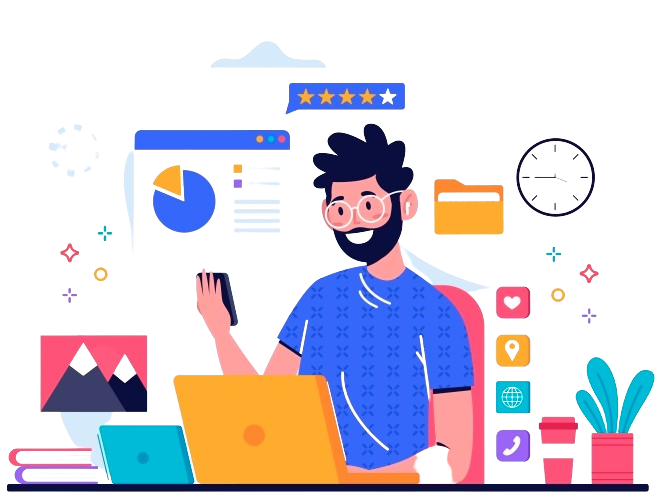
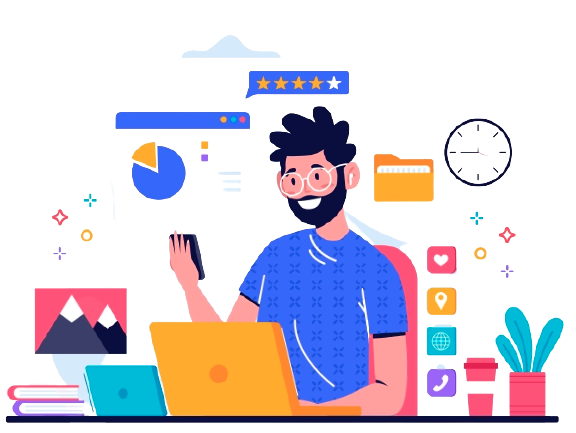
Feat : Added Home Page

diff --git a/src/pages/Home Page/Home.tsx b/src/pages/Home Page/Home.tsx
@@ -3,16 +3,10 @@ import {
 	Flex,
 	Stack,
 	useColorMode,
-	IconButton,
 	Box,
 	Image,
-	MenuItem,
-	MenuList,
-	Menu,
-	MenuButton,
 	Grid,
 	Heading,
-	Avatar,
 	Button,
 } from "@chakra-ui/react";
 import bg from "../../images/bg.png";
@@ -26,25 +20,24 @@ export function Home() {
 					templateColumns={[
 						"repeat(1,1fr)",
 						"repeat(1,1fr)",
-						"repeat(2,0.5fr)",
+						"repeat(2,fr)",
 						"repeat(2, 1fr)",
 					]}
 					gap={6}
 				>
-					<Box p={3} style={{ border: "1px solid red" }}>
-						<Image src={bg} />
+					<Box p={3}>
+						<Image w={["100%", "100%", "74%", "100%"]} mx="auto" src={bg} />
 					</Box>
-					<Stack
-						align="center"
-						justify="center"
-						style={{ border: "1px solid red" }}
-						spacing="2em"
-						p={3}
-					>
-						<Heading className="banner-heading" as="h1" size="3xl">
-							An Online Community of Musketeeeeers.
+					<Stack align="center" justify="center" spacing="2em" p={3}>
+						<Heading
+							style={{ fontFamily: "Quicksand, sans-serif" }}
+							className="banner-heading"
+							as="h1"
+							fontSize="3vw"
+						>
+							An Online Community for Musketeeeeers.
 						</Heading>
-						<p>
+						<p className="quote">
 							<strong>Sociify</strong> is an online platform which helps its
 							users to get closer and remain updated on their likeable topics
 							thorugh quizzes.

diff --git a/src/components/Navbar.tsx b/src/components/Navbar.tsx
@@ -1,13 +1,10 @@
 import "./Navbar.css";
 import {
 	AddIcon,
-	EditIcon,
 	ExternalLinkIcon,
 	HamburgerIcon,
 	LockIcon,
 	MoonIcon,
-	RepeatIcon,
-	SearchIcon,
 	SunIcon,
 } from "@chakra-ui/icons";
 import {
@@ -22,6 +19,7 @@ import {
 	Menu,
 	MenuButton,
 	Avatar,
+	Tooltip,
 } from "@chakra-ui/react";
 import { useLocation, Link } from "react-router-dom";
 import { bgColor, textColor } from "../utils/constants";
@@ -43,15 +41,26 @@ export function Navbar() {
 				fontSize={["md", "lg", "lg", "md"]}
 				h={["3em", "3em", "3em", "4em"]}
 				boxShadow="md"
-		
 			>
 				<Flex mx={3} w="100%" justify="space-between" align="center">
 					<Box>
-						<Image
-							h={["2em", "2.1em", "2.1em", "2.5em"]}
-							src={icon}
-							alt="Logo of Chakra-ui"
-						/>
+						<Tooltip
+							label="Socify"
+							fontSize="md"
+							placement="auto"
+							bg="transparent"
+							boxShadow="none"
+							color={colorMode === "light" ? bgColor["dark"] : bgColor["light"]}
+						>
+							<Link to={{ pathname: "/" }}>
+								{" "}
+								<Image
+									h={["2em", "2.1em", "2.1em", "2.5em"]}
+									src={icon}
+									alt="Logo of Chakra-ui"
+								/>
+							</Link>
+						</Tooltip>
 					</Box>
 					<Stack
 						spacing={[3, 5, 8, 8]}

diff --git a/src/pages/Home Page/Home.css b/src/pages/Home Page/Home.css
@@ -1,5 +1,4 @@
 .join-page {
-	border: 1px solid red;
 	width: 100%;
 	min-height: 92.8vh;
 	display: flex;
@@ -13,7 +12,7 @@
 	border-radius: var(--hard-border-radius);
 	box-shadow: rgba(0, 0, 0, 0.16) 0px 1px 4px;
 }
-.banner-heading {
-	font: var(--price-font);
-}
 
+.quote {
+	font-family: var(--qoute-font);
+}

diff --git a/src/App.tsx b/src/App.tsx
@@ -9,7 +9,7 @@ function App() {
 		<div className="App">
 			<Navbar />
 			<Routes>
-				<Route path="/join">
+				<Route path="/">
 					<Home />
 				</Route>
 			</Routes>
